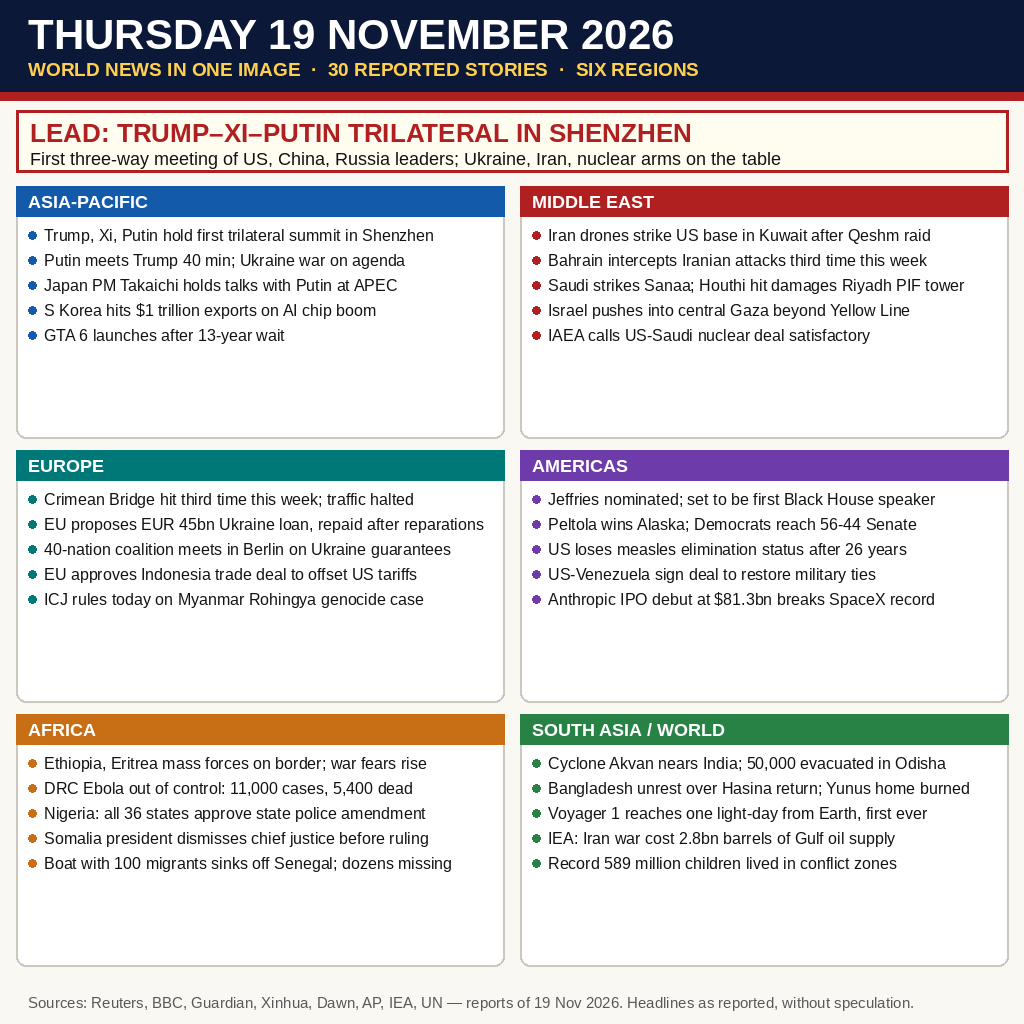
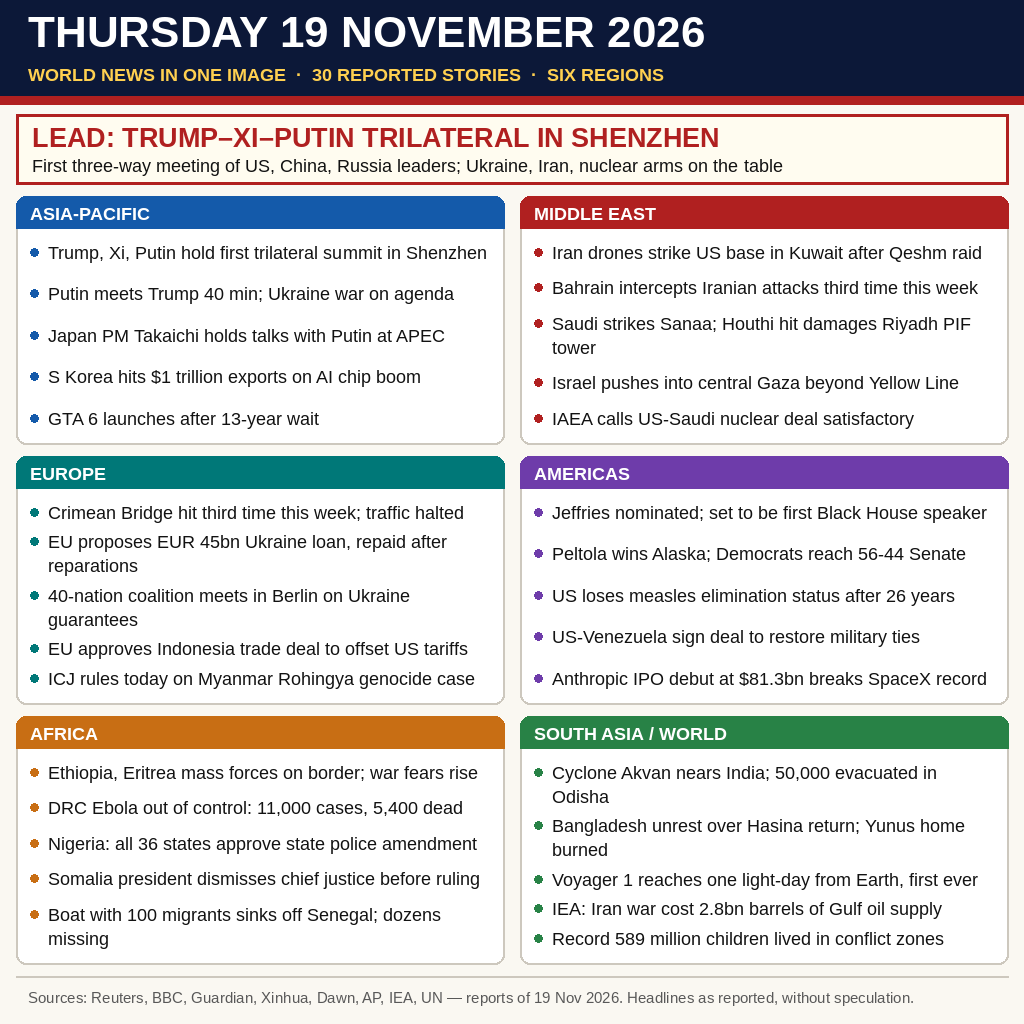
Revise 19 Nov news plate in fresh session

Changed region(s): [[0.0, 0.0, 1.0, 1.0]]

diff --git a/gen_image.py b/gen_image.py
@@ -4,7 +4,10 @@ Judge priorities: name the day, breadth across regions and fields, each
 story readable from short labels, faithful to reports, clean craft. So
 this draws a six-region newspaper plate with 30 reported stories, a
 lead banner for the day's biggest event, and a sources footer.
-Deterministic: same inputs, same bytes.
+
+Layout is measured, never guessed: story font auto-fits the panels,
+spacing is justified to fill each panel evenly, and an assertion
+guarantees nothing clips. Deterministic: same inputs, same bytes.
 """
 from PIL import Image, ImageDraw, ImageFont
 
@@ -67,14 +70,22 @@ REGIONS = [
     ]),
 ]
 
+# Panel grid: 2 columns x 3 rows.
+X0, Y0, PW, PH, GX, GY = 16, 196, 488, 248, 16, 12
+TITLE_H = 32          # region colour bar
+PAD_TOP, PAD_BOT = 12, 14   # breathing room inside panel body
+TEXT_PAD = 48         # left bullet gutter + right margin
+MIN_GAP = 5           # minimum space between stories (18px fit verified)
+
 
 def font(path, size):
     return ImageFont.truetype(path, size)
 
 
 def wrap(d, text, fnt, max_w):
-    lines, words, cur = [], text.split(), ""
-    for w in words:
+    """Greedy word wrap; a word longer than max_w still gets its own line."""
+    lines, cur = [], ""
+    for w in text.split():
         trial = (cur + " " + w).strip()
         if d.textlength(trial, font=fnt) <= max_w or not cur:
             cur = trial
@@ -86,44 +97,104 @@ def wrap(d, text, fnt, max_w):
     return lines
 
 
+def fit_story_font(d):
+    """Largest story font (20..16) whose wrapped lines fit every panel
+    with at least MIN_GAP between stories. Deterministic search."""
+    avail = PH - TITLE_H - PAD_TOP - PAD_BOT
+    for fs in (20, 19, 18, 17, 16):
+        fnt = font(REG, fs)
+        line_h = fs + 6
+        ok = True
+        for _, _, stories in REGIONS:
+            n_lines = sum(len(wrap(d, s, fnt, PW - TEXT_PAD)) for s in stories)
+            need = n_lines * line_h + MIN_GAP * (len(stories) - 1)
+            if need > avail:
+                ok = False
+                break
+        if ok:
+            return fnt, line_h
+    raise RuntimeError("stories do not fit at any candidate font size")
+
+
+def draw_panel(d, x, y, region, color, stories, bf, line_h):
+    # Card with rounded top corners: rounded bar + squared-off lower half.
+    d.rounded_rectangle([x, y, x + PW, y + PH], radius=10,
+                        fill=(255, 255, 255), outline=LINE, width=2)
+    d.rounded_rectangle([x, y, x + PW, y + TITLE_H], radius=10, fill=color)
+    d.rectangle([x, y + TITLE_H // 2, x + PW, y + TITLE_H], fill=color)
+    d.text((x + 14, y + TITLE_H / 2 + 1), region,
+           font=font(BOLD, 18), fill=(255, 255, 255), anchor="lm")
+
+    # Wrap all stories first, then justify the gaps so the body fills
+    # the panel evenly instead of leaving a dead zone at the bottom.
+    wrapped = [wrap(d, s, bf, PW - TEXT_PAD) for s in stories]
+    avail = PH - TITLE_H - PAD_TOP - PAD_BOT
+    content_h = sum(len(ls) for ls in wrapped) * line_h
+    gap = max(MIN_GAP, (avail - content_h) / (len(stories) - 1))
+
+    ty = y + TITLE_H + PAD_TOP
+    for lines in wrapped:
+        first_cy = ty + line_h / 2
+        d.ellipse([x + 14, first_cy - 4, x + 22, first_cy + 4], fill=color)
+        for j, ln in enumerate(lines):
+            d.text((x + 32, ty + j * line_h + line_h / 2), ln,
+                   font=bf, fill=INK, anchor="lm")
+        ty += len(lines) * line_h + gap
+    # Hard guarantee: nothing spilled past the panel's bottom edge.
+    assert ty - gap <= y + PH - PAD_BOT + 1, f"overflow in {region}"
+
+
 def main():
     img = Image.new("RGB", (W, H), PAPER)
     d = ImageDraw.Draw(img)
 
-    # Header: the day, named large.
-    d.rectangle([0, 0, W, 92], fill=NAVY)
-    d.text((28, 10), "THURSDAY 19 NOVEMBER 2026", font=font(BOLD, 42), fill=(255, 255, 255))
-    d.text((28, 58), "WORLD NEWS IN ONE IMAGE  ·  30 REPORTED STORIES  ·  SIX REGIONS", font=font(BOLD, 19), fill=GOLD)
-    d.rectangle([0, 92, W, 100], fill=RED)
+    # Fixed texts: assert they fit their margins before drawing, so a
+    # future edit can never silently clip the date, lead or sources.
+    fixed = [
+        ("THURSDAY 19 NOVEMBER 2026", font(BOLD, 44), W - 56),
+        ("WORLD NEWS IN ONE IMAGE  ·  30 REPORTED STORIES  ·  SIX REGIONS", font(BOLD, 18), W - 56),
+        ("LEAD: TRUMP–XI–PUTIN TRILATERAL IN SHENZHEN", font(BOLD, 27), W - 64),
+        ("First three-way meeting of US, China, Russia leaders; Ukraine, Iran, nuclear arms on the table", font(REG, 18), W - 64),
+        ("Sources: Reuters, BBC, Guardian, Xinhua, Dawn, AP, IEA, UN — reports of 19 Nov 2026. Headlines as reported, without speculation.", font(REG, 15), W - 56),
+    ]
+    for txt, fnt, max_w in fixed:
+        assert d.textlength(txt, font=fnt) <= max_w, f"too wide: {txt[:40]}"
+
+    # Header: the day, named large and vertically centred.
+    d.rectangle([0, 0, W, 96], fill=NAVY)
+    d.text((28, 32), "THURSDAY 19 NOVEMBER 2026",
+           font=font(BOLD, 44), fill=(255, 255, 255), anchor="lm")
+    d.text((28, 74), "WORLD NEWS IN ONE IMAGE  ·  30 REPORTED STORIES  ·  SIX REGIONS",
+           font=font(BOLD, 18), fill=GOLD, anchor="lm")
+    d.rectangle([0, 96, W, 104], fill=RED)
 
     # Lead banner: the day's biggest event.
-    d.rectangle([16, 110, W - 16, 172], fill=(255, 252, 240), outline=RED, width=3)
-    d.text((30, 118), "LEAD: TRUMP–XI–PUTIN TRILATERAL IN SHENZHEN", font=font(BOLD, 26), fill=RED)
-    d.text((30, 148), "First three-way meeting of US, China, Russia leaders; Ukraine, Iran, nuclear arms on the table", font=font(REG, 18), fill=INK)
+    d.rectangle([16, 114, W - 16, 184], fill=(255, 252, 240), outline=RED, width=3)
+    d.text((32, 137), "LEAD: TRUMP–XI–PUTIN TRILATERAL IN SHENZHEN",
+           font=font(BOLD, 27), fill=RED, anchor="lm")
+    d.text((32, 165), "First three-way meeting of US, China, Russia leaders; Ukraine, Iran, nuclear arms on the table",
+           font=font(REG, 18), fill=INK, anchor="lm")
 
-    # Six region panels, 2 columns x 3 rows.
-    x0, y0, pw, ph, gx, gy = 16, 186, 488, 252, 16, 12
-    hf = font(BOLD, 20)
-    bf = font(REG, 16)
+    # Six region panels with auto-fitted, justified story text.
+    bf, line_h = fit_story_font(d)
     for i, (region, color, stories) in enumerate(REGIONS):
         col, row = i % 2, i // 2
-        x, y = x0 + col * (pw + gx), y0 + row * (ph + gy)
-        d.rounded_rectangle([x, y, x + pw, y + ph], radius=10, fill=(255, 255, 255), outline=LINE, width=2)
-        d.rectangle([x, y, x + pw, y + 30], fill=color)
-        d.text((x + 12, y + 5), region, font=font(BOLD, 18), fill=(255, 255, 255))
-        ty = y + 40
-        for s in stories:
-            lines = wrap(d, s, bf, pw - 46)
-            d.ellipse([x + 12, ty + 5, x + 20, ty + 13], fill=color)
-            for j, ln in enumerate(lines):
-                d.text((x + 28, ty + j * 19), ln, font=bf, fill=INK)
-            ty += 19 * len(lines) + 6
+        draw_panel(d, X0 + col * (PW + GX), Y0 + row * (PH + GY),
+                   region, color, stories, bf, line_h)
 
-    # Footer: sources and honesty note.
-    d.text((28, H - 30), "Sources: Reuters, BBC, Guardian, Xinhua, Dawn, AP, IEA, UN — reports of 19 Nov 2026. Headlines as reported, without speculation.", font=font(REG, 15), fill=GREY)
+    # Footer: sources and honesty note, above a hairline rule.
+    d.line([16, 976, W - 16, 976], fill=LINE, width=2)
+    d.text((28, 998), "Sources: Reuters, BBC, Guardian, Xinhua, Dawn, AP, IEA, UN — reports of 19 Nov 2026. Headlines as reported, without speculation.",
+           font=font(REG, 15), fill=GREY, anchor="lm")
 
     img.save("entry.png", optimize=True)
-    print("wrote entry.png", img.size)
+    # Verification report: chosen font and how full each panel body is.
+    avail = PH - TITLE_H - PAD_TOP - PAD_BOT
+    fills = []
+    for region, _, stories in REGIONS:
+        n = sum(len(wrap(d, s, bf, PW - TEXT_PAD)) for s in stories)
+        fills.append(f"{region.split()[0]}:{n * line_h + MIN_GAP * 4}/{avail}")
+    print("wrote entry.png", img.size, "story font", bf.size, "panel fill", " ".join(fills))
 
 
 if __name__ == "__main__":
